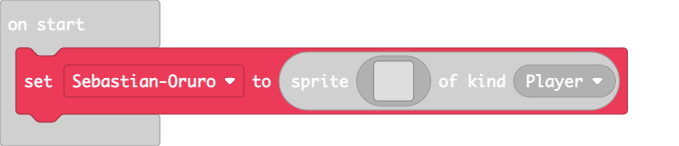
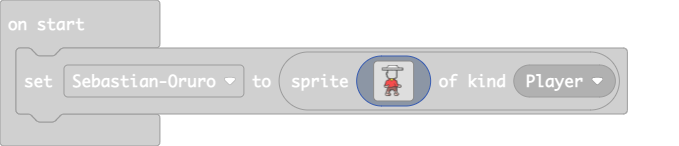
Update main.blocks, main.ts

Changed region(s): [[0.0, 0.3014, 0.9278, 0.8493]]

diff --git a/main.ts b/main.ts
@@ -1,18 +1,57 @@
 let SebastianOruro = sprites.create(img`
-    . . . . . . . . . . . . . . . . 
-    . . . . . . . . . . . . . . . . 
-    . . . . . . . . . . . . . . . . 
-    . . . . . . . . . . . . . . . . 
-    . . . . . . . . . . . . . . . . 
-    . . . . . . . . . . . . . . . . 
-    . . . . . . . . . . . . . . . . 
-    . . . . . . . . . . . . . . . . 
-    . . . . . . . . . . . . . . . . 
-    . . . . . . . . . . . . . . . . 
-    . . . . . . . . . . . . . . . . 
-    . . . . . . . . . . . . . . . . 
-    . . . . . . . . . . . . . . . . 
-    . . . . . . . . . . . . . . . . 
-    . . . . . . . . . . . . . . . . 
-    . . . . . . . . . . . . . . . . 
+    ...............fffffffffffffff................
+    ...............f1111111111111f................
+    ..............f111111111111111f...............
+    .............f11111111111111111f..............
+    ............f1111111111111111111f.............
+    ....ffffffffffffffffffffffffffffffffffff......
+    ....f1111111111111111111111111111111111f......
+    ....f1111111111111111111111111111111111f......
+    ....ffffffffffffffffffffffffffffffffffff......
+    .............f...............f................
+    .............f...............f................
+    .............f...............f................
+    .............f...............f................
+    ...........fff...............f................
+    ...........f.................f................
+    ...........f.................f................
+    ...........ff................f................
+    ............f................f................
+    ............f................f................
+    ............ff...............f................
+    .............f...............f................
+    .............f...............f................
+    ..............ff..........fff.................
+    ................ffffffffff....................
+    ...............f22f5555f2f....................
+    ...............f22f5555f2ff...................
+    ............ffff222f55f222fff.................
+    ...........f22222222ff2222222f................
+    ...........f22222222222222222f................
+    ..........f222222222222222222f................
+    ..........f222222222222222222f................
+    ..........f2222222222222222222f...............
+    .........ff22222222222222f2222f...............
+    .........f22222f2222222222f222ff..............
+    ........ff2222f.f222222222f22222ffff..........
+    ........ffffff..f222222222f2222fddddf.........
+    ........fddddd.f22222222222f222fddddf.........
+    ........fdddddf2222222ffffffffffddddf.........
+    .........ffff.ffffffffeeeeeeef..ffff..........
+    .............feeeeeeeeeeeeeeef................
+    .............feeeeeeeeeeeeeeef................
+    .............feeeeeeeeeeeeeeef................
+    ............feeeeeffffffeeeeef................
+    ............feeeeef.....feeeef................
+    ............feeeeff.....ffeeef................
+    ...........feeeef.........fddf................
+    ...........fddddf.........fddf................
+    ...........fddddf.........fdddf...............
+    ..........ffffffff.......fffffdf..............
+    ..........fdddeeddf......fddeeddf.............
+    ..........fddddeedf......fdddeedf.............
+    ..........fddddeeef......fddddef..............
+    ...........fffffff........fffff...............
+    ..............................................
+    ..............................................
     `, SpriteKind.Player)
